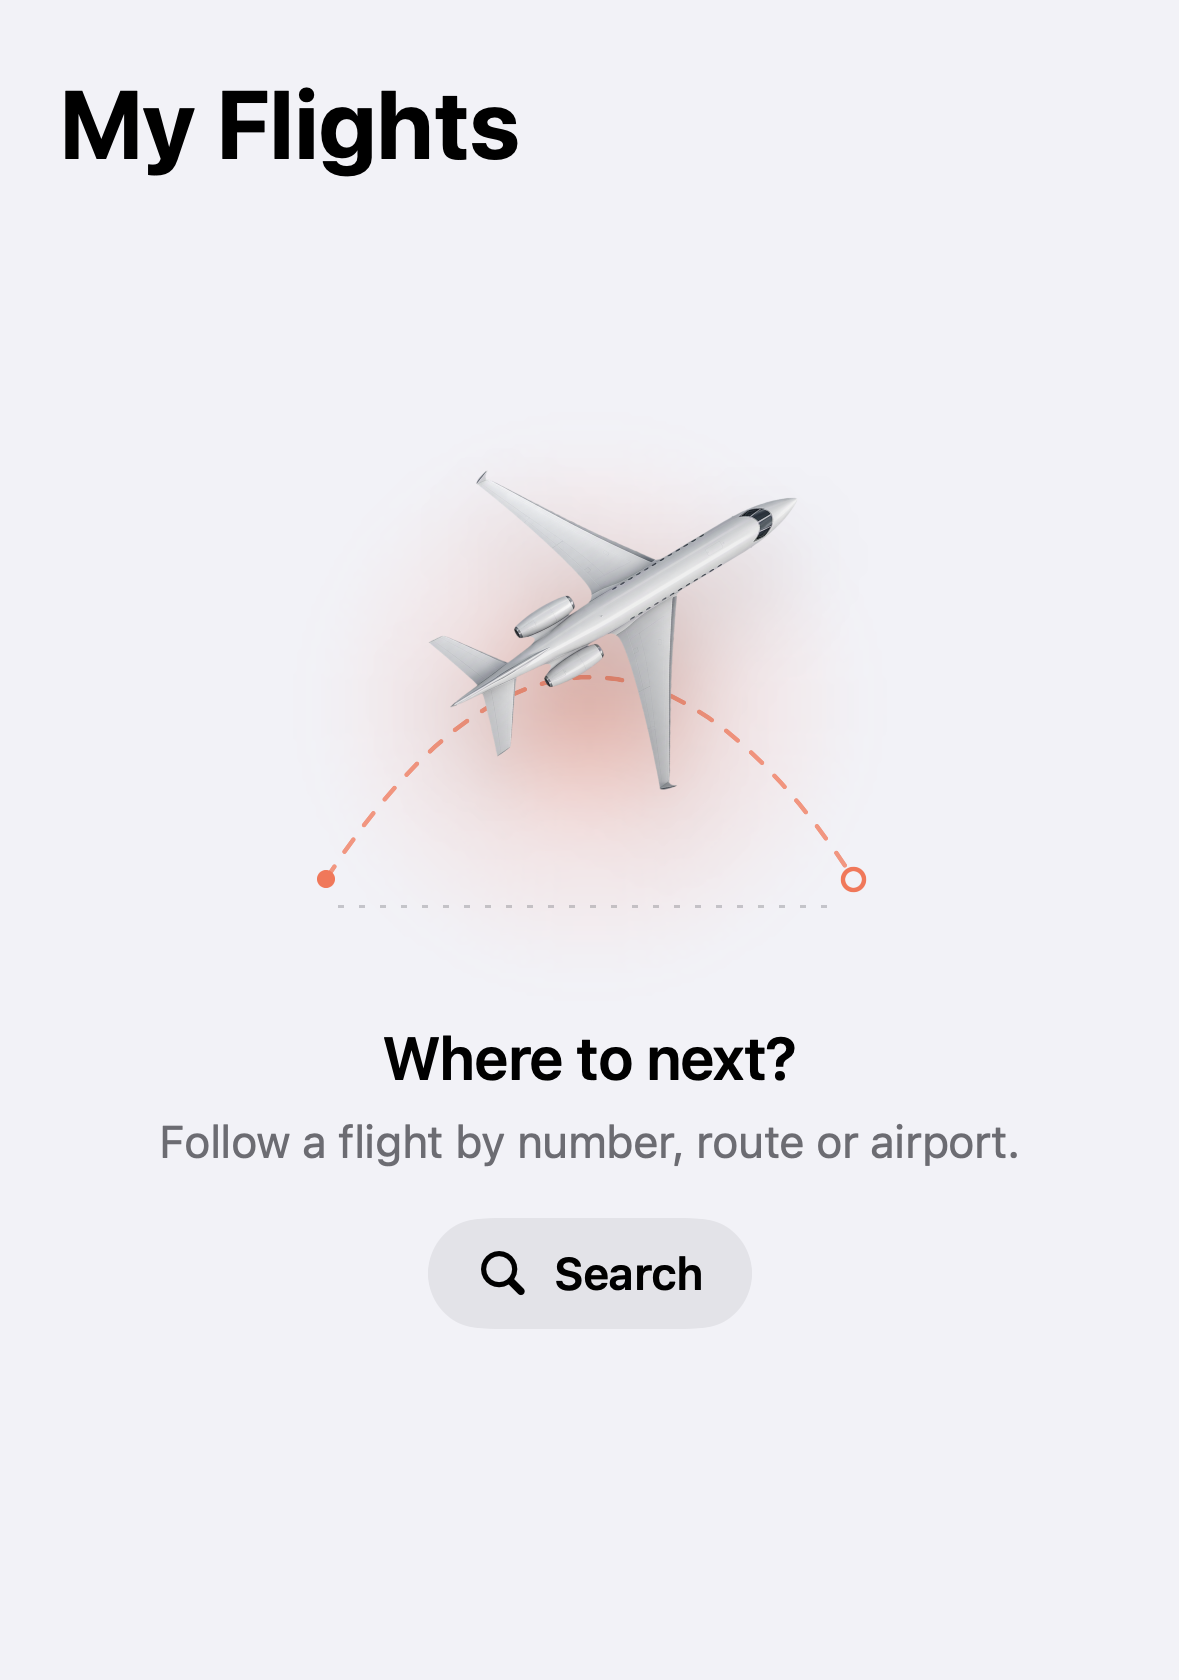
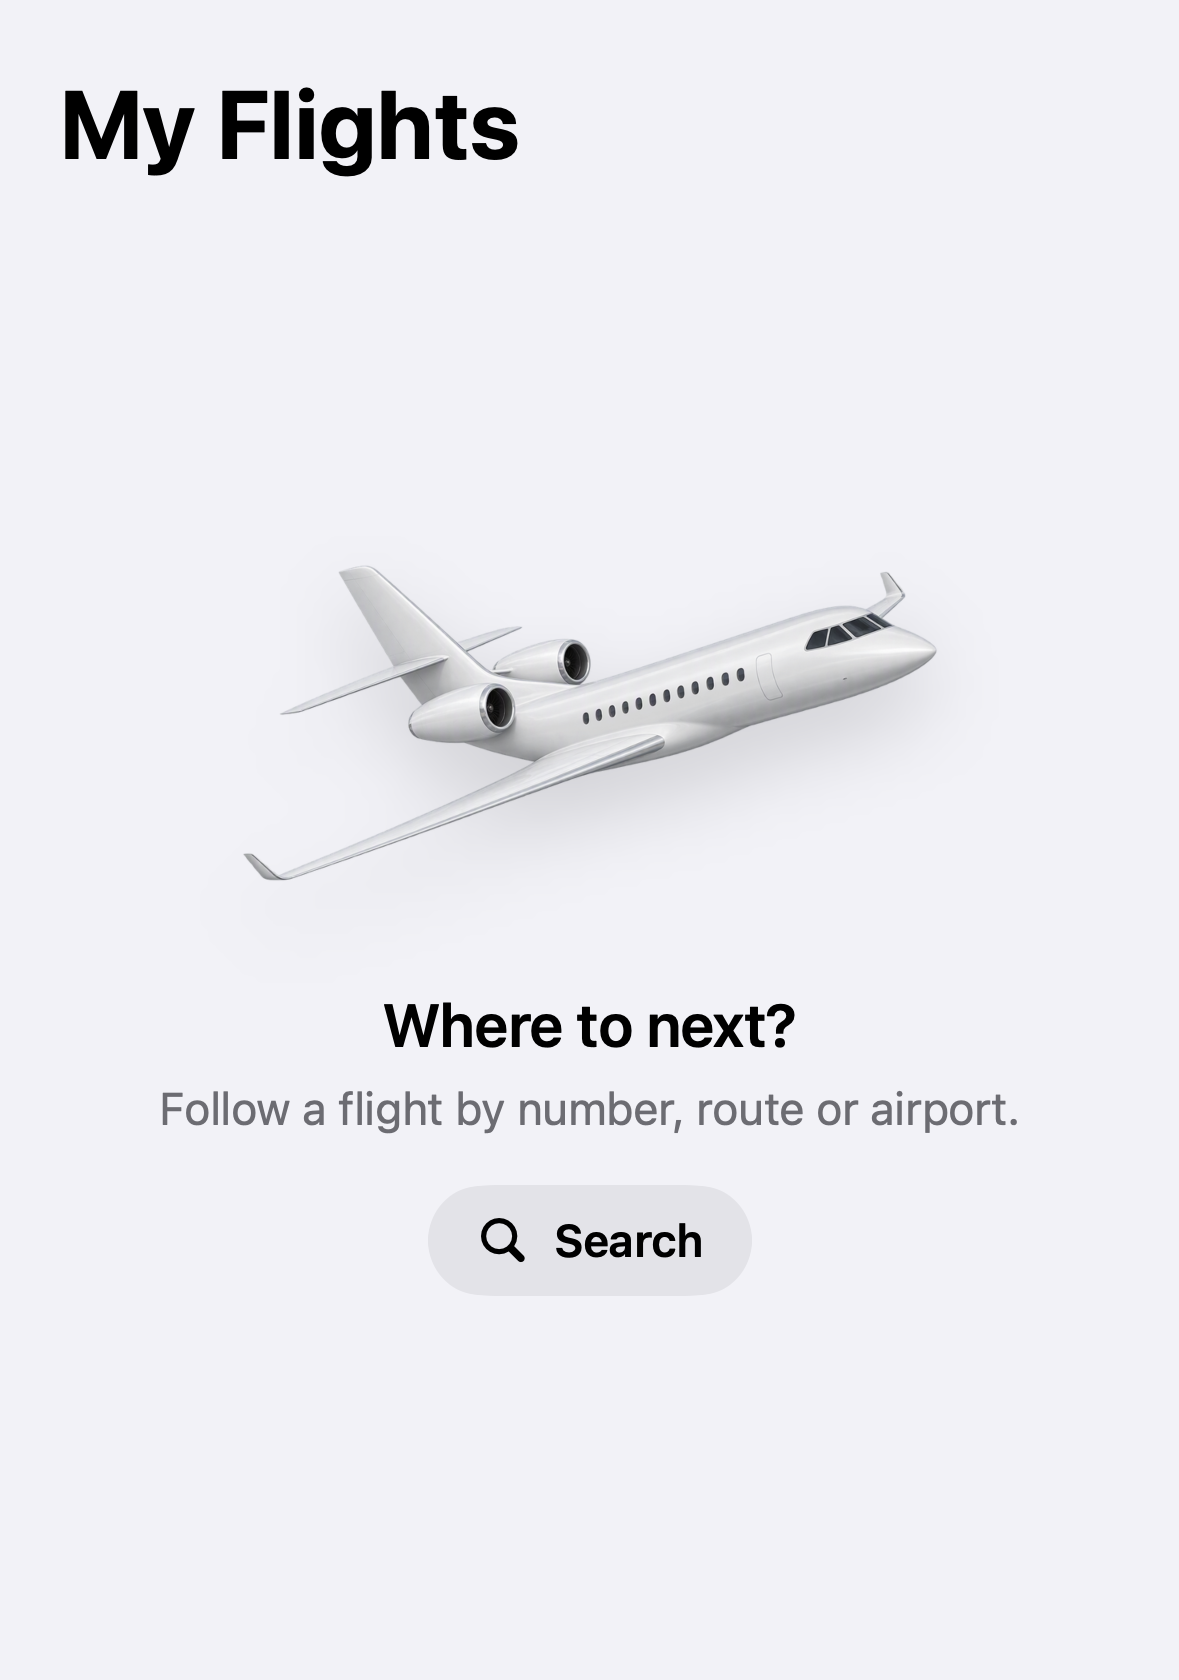
feat(ui): plain jet pictures for the Passport and My Flights empty states
Drop the rings, route arcs and airport dots. Passport shows the white jet in
side profile, My Flights the same jet climbing in three-quarter view, both made
with Azure gpt-image-2.5 from the v4 icon jet (prompts and raws in
assets/empty-states).

diff --git a/Packages/FlightKit/Sources/FlightKit/UI/EmptyStateIllustration.swift b/Packages/FlightKit/Sources/FlightKit/UI/EmptyStateIllustration.swift
@@ -1,190 +1,63 @@
 import SwiftUI
 
-/// A large, soft illustration for an empty screen: our glossy white jet over a warm coral glow, with route
-/// lines drawn around it. Arcs, rings and dots are drawn here, not baked into the picture, so they follow
-/// the colour scheme. Decorative: VoiceOver skips it, the text under it speaks. The jet floats gently,
-/// and stays still with Reduce Motion.
+/// A large, soft illustration for an empty screen: our glossy white jet on its own, nothing drawn around it.
+/// The pictures come from assets/empty-states (Azure gpt-image-2.5, the v4 icon jet as the style reference).
+/// Decorative: VoiceOver skips it, the text under it speaks. The jet floats gently, and stays still with
+/// Reduce Motion.
 struct EmptyStateIllustration: View {
-    /// What is drawn around the jet, so each empty screen gets its own picture.
+    /// Which picture, so each empty screen gets its own.
     enum Variant {
-        /// The jet crossing a dashed great-circle arc inside a passport-stamp ring (Passport).
+        /// The jet in pure side profile, level flight (Passport).
         case stamp
-        /// The jet climbing over a dashed arc between two airports, above a faint horizon (My Flights).
+        /// The jet seen three-quarters from the front, climbing (My Flights).
         case climb
+
+        var asset: String {
+            switch self {
+            case .stamp: "empty-jet-profile"
+            case .climb: "empty-jet-climb"
+            }
+        }
     }
 
     var variant: Variant = .stamp
     /// The width of the picture in points; accessibility text sizes take it down to 72% to leave room for the words.
-    var size: CGFloat = 250
-    /// The picture in the middle, from the FlightKit asset catalog.
-    var asset: String = "empty-jet"
+    var size: CGFloat = 300
 
     @Environment(\.accessibilityReduceMotion) private var reduceMotion
     @Environment(\.dynamicTypeSize) private var typeSize
     @Environment(\.colorScheme) private var scheme
     @State private var floating = false
 
-    /// The warm coral of the Ember icon's glow.
-    static let coral = Color(light: 0xF0785A, dark: 0xFF7A55)
-
-    private var side: CGFloat { typeSize.isAccessibilitySize ? size * 0.72 : size }
-    private var height: CGFloat { variant == .stamp ? side : side * 0.8 }
-    private var dark: Bool { scheme == .dark }
+    private var width: CGFloat { typeSize.isAccessibilitySize ? size * 0.72 : size }
 
     var body: some View {
-        ZStack {
-            switch variant {
-            case .stamp: stampScene
-            case .climb: climbScene
-            }
-        }
-        .frame(width: side, height: height)
-        .frame(maxWidth: .infinity)
-        .accessibilityHidden(true)
-        .onAppear {
-            guard !reduceMotion else { return }
-            withAnimation(.easeInOut(duration: 3.2).repeatForever(autoreverses: true)) { floating = true }
-        }
-        .onChange(of: reduceMotion) { _, reduced in
-            if reduced { withAnimation(.easeOut(duration: 0.3)) { floating = false } }
-        }
-    }
-
-    // MARK: Scenes
-
-    private var stampScene: some View {
-        let arc = side * 0.62
-        return ZStack {
-            glow(radius: side * 0.5)
-            StampRing()
-                .stroke(Theme.secondary.opacity(dark ? 0.28 : 0.32), style: StrokeStyle(lineWidth: 1, dash: [2, 5]))
-                .frame(width: side * 0.86, height: side * 0.86)
-            Circle()
-                .stroke(Theme.secondary.opacity(dark ? 0.16 : 0.2), lineWidth: 1)
-                .frame(width: side * 0.70, height: side * 0.70)
-            RouteArc()
-                .stroke(Self.coral.opacity(0.75), style: dashed)
-                .frame(width: side, height: arc)
-                .offset(y: side * 0.04)
-            airport(filled: true)
-                .offset(x: -side * 0.47, y: arc * 0.44 + side * 0.04)
-            airport(filled: false)
-                .offset(x: side * 0.47, y: -arc * 0.44 + side * 0.04)
-            jet(size: side * 0.66, tilt: -6)
-        }
-    }
-
-    private var climbScene: some View {
-        let span = side * 0.88
-        let rise = height * 0.42
-        let base = height * 0.3
-        return ZStack {
-            glow(radius: side * 0.46)
-                .offset(y: -height * 0.06)
-            Horizon()
-                .stroke(Theme.secondary.opacity(dark ? 0.3 : 0.34), style: StrokeStyle(lineWidth: 1, dash: [2, 5]))
-                .frame(width: side, height: 1)
-                .offset(y: base + 9)
-            ClimbArc()
-                .stroke(Self.coral.opacity(0.75), style: dashed)
-                .frame(width: span, height: rise)
-                .offset(y: base - rise / 2)
-            airport(filled: true)
-                .offset(x: -span / 2, y: base)
-            airport(filled: false)
-                .offset(x: span / 2, y: base)
-            jet(size: side * 0.54, tilt: 14)
-                .offset(x: side * 0.02, y: -height * 0.21)
-        }
-    }
-
-    // MARK: Pieces
-
-    private var dashed: StrokeStyle { StrokeStyle(lineWidth: 1.5, lineCap: .round, dash: [5, 6]) }
-
-    /// The coral bloom behind the jet, a touch stronger in dark where the sheet is near black.
-    private func glow(radius: CGFloat) -> some View {
-        RadialGradient(colors: [Self.coral.opacity(dark ? 0.6 : 0.42),
-                                Self.coral.opacity(dark ? 0.16 : 0.12),
-                                Self.coral.opacity(0)],
-                       center: .center, startRadius: 0, endRadius: radius)
-            .frame(width: radius * 2.4, height: radius * 2.4)
-            .blur(radius: 8)
-    }
-
-    /// An airport dot: filled where the route starts, a ring where it ends.
-    @ViewBuilder private func airport(filled: Bool) -> some View {
-        if filled {
-            Circle().fill(Self.coral).frame(width: 6, height: 6)
-        } else {
-            Circle().stroke(Self.coral, lineWidth: 1.5).frame(width: 7, height: 7)
-        }
-    }
-
-    private func jet(size: CGFloat, tilt: Double) -> some View {
-        Image(asset, bundle: .module)
+        Image(variant.asset, bundle: .module)
             .resizable()
             .interpolation(.high)
             .scaledToFit()
-            .frame(width: size, height: size)
-            .rotationEffect(.degrees(tilt))
-            .shadow(color: Color.black.opacity(dark ? 0.45 : 0.16), radius: 16, y: 14)
-            .offset(y: floating ? -6 : 4)
-    }
-}
-
-/// A great-circle style route from the lower left to the upper right, bowing up like a flight on a flat map.
-private struct RouteArc: Shape {
-    func path(in rect: CGRect) -> Path {
-        var p = Path()
-        let start = CGPoint(x: rect.minX + rect.width * 0.03, y: rect.maxY - rect.height * 0.06)
-        let end = CGPoint(x: rect.maxX - rect.width * 0.03, y: rect.minY + rect.height * 0.06)
-        p.move(to: start)
-        p.addQuadCurve(to: end, control: CGPoint(x: rect.minX + rect.width * 0.3, y: rect.minY - rect.height * 0.12))
-        return p
-    }
-}
-
-/// A route between two airports on the same level, its top touching the frame's top edge.
-private struct ClimbArc: Shape {
-    func path(in rect: CGRect) -> Path {
-        var p = Path()
-        p.move(to: CGPoint(x: rect.minX, y: rect.maxY))
-        // A quadratic's apex sits halfway to its control point.
-        p.addQuadCurve(to: CGPoint(x: rect.maxX, y: rect.maxY),
-                       control: CGPoint(x: rect.midX, y: rect.maxY - rect.height * 2))
-        return p
-    }
-}
-
-/// A flat horizon line under the airports.
-private struct Horizon: Shape {
-    func path(in rect: CGRect) -> Path {
-        var p = Path()
-        p.move(to: CGPoint(x: rect.minX + rect.width * 0.08, y: rect.midY))
-        p.addLine(to: CGPoint(x: rect.maxX - rect.width * 0.08, y: rect.midY))
-        return p
-    }
-}
-
-/// A passport-stamp edge: a ring with two gaps where a stamp's lettering would sit.
-private struct StampRing: Shape {
-    func path(in rect: CGRect) -> Path {
-        let r = min(rect.width, rect.height) / 2
-        let c = CGPoint(x: rect.midX, y: rect.midY)
-        var p = Path()
-        p.addArc(center: c, radius: r, startAngle: .degrees(-200), endAngle: .degrees(-40), clockwise: false)
-        p.move(to: CGPoint(x: c.x + r * cos(.pi * -20 / 180), y: c.y + r * sin(.pi * -20 / 180)))
-        p.addArc(center: c, radius: r, startAngle: .degrees(-20), endAngle: .degrees(140), clockwise: false)
-        return p
+            .frame(width: width)
+            // A soft shadow under the jet: it lifts the white paint off the light sheet, and barely shows in dark.
+            .shadow(color: Color.black.opacity(scheme == .dark ? 0.5 : 0.14), radius: 14, y: 12)
+            .offset(y: floating ? -4 : 4)
+            .scaledPadding(.vertical, 12)
+            .frame(maxWidth: .infinity)
+            .accessibilityHidden(true)
+            .onAppear {
+                guard !reduceMotion else { return }
+                withAnimation(.easeInOut(duration: 3.2).repeatForever(autoreverses: true)) { floating = true }
+            }
+            .onChange(of: reduceMotion) { _, reduced in
+                if reduced { withAnimation(.easeOut(duration: 0.3)) { floating = false } }
+            }
     }
 }
 
 #if DEBUG
-#Preview("Stamp") {
+#Preview("Profile") {
     EmptyStateIllustration().padding().background(Theme.background).preferredColorScheme(.dark)
 }
 #Preview("Climb, light") {
-    EmptyStateIllustration(variant: .climb).padding().background(Theme.background).preferredColorScheme(.light)
+    EmptyStateIllustration(variant: .climb, size: 240).padding().background(Theme.background).preferredColorScheme(.light)
 }
 #endif

diff --git a/Packages/FlightKit/Sources/FlightKit/UI/Screens/MyFlightsView.swift b/Packages/FlightKit/Sources/FlightKit/UI/Screens/MyFlightsView.swift
@@ -128,7 +128,7 @@ struct EmptyFlights: View {
         VStack(spacing: 6) {
             Spacer(minLength: 0)
             // Smaller than Passport's: the home sheet opens at half height and Search should stay in view.
-            EmptyStateIllustration(variant: .climb, size: 200)
+            EmptyStateIllustration(variant: .climb, size: 240)
                 .scaledPadding(.bottom, 10)
             Text("Where to next?")
                 .scaledFont(20, weight: .semibold)

diff --git a/assets/empty-states/gen.py b/assets/empty-states/gen.py
@@ -1,0 +1,91 @@
+"""Empty-state jets for Passport and My Flights, made with Azure gpt-image-2.5 (images/edits).
+
+The v4 app-icon jet (assets/icon-set-v4/plane-white.png, seen from above) is the style reference.
+One call at a time: the deployment rate-limits. Usage, from the repo root:
+
+    python3 assets/empty-states/gen.py profile 1     # -> assets/empty-states/raw/profile-1.png
+    python3 assets/empty-states/gen.py climb 2
+
+Then: python3 assets/empty-states/post.py <raw png> <asset name>  (trim, resize, write the imageset).
+"""
+import base64, json, pathlib, subprocess, sys, time, urllib.error, urllib.request, uuid
+
+ROOT = pathlib.Path(__file__).resolve().parents[2]
+OUT = pathlib.Path(__file__).resolve().parent / "raw"
+REF = ROOT / "assets" / "icon-set-v4" / "plane-white.png"
+EP = ("https://temple-ai-provider.cognitiveservices.azure.com/openai/deployments/gpt-image-2.5-flare/"
+      "images/edits?api-version=2025-04-01-preview")
+
+BASE = (
+    "The reference image shows our brand's private business jet from above: a large modern long-range business "
+    "jet in the Dassault Falcon 6X class, glossy pure white paint with soft silver shading, two rear-mounted "
+    "engines on the aft fuselage, swept wings with small upturned winglets, T-less cruciform-free conventional "
+    "tail with a swept fin and a horizontal stabiliser low on the fin, oval cabin windows, dark cockpit glass. "
+    "Draw THE SAME aircraft, same paint and same rendering style: a realistic but slightly stylised premium "
+    "product illustration, like an Apple product render, clean studio lighting, smooth gloss, crisp edges, "
+    "very few panel lines. Absolutely no livery, no stripes, no logo, no text, no registration, no flag. "
+    "Exactly two engines, both on the rear fuselage. Landing gear retracted, in flight. "
+    "Isolated on a fully transparent background: no sky, no ground, no clouds, no shadow, no reflection, "
+    "no frame, no watermark. The whole aircraft fits in the frame with generous equal margins, centred. "
+)
+VIEWS = {
+    "profile": "View: pure side profile, nose pointing RIGHT, camera exactly level with the fuselage, "
+               "level flight, no roll, no pitch. Only the near engine is visible on the rear fuselage.",
+    "climb": "View: three-quarter view from slightly below and in front, nose pointing to the upper RIGHT, "
+             "the jet climbing gently at about 12 degrees, a little of the underside of the near wing visible, "
+             "both wings and both engines visible, elegant and dynamic.",
+    # climb-1 came back as a top view again; v2 pins the camera to the side.
+    "climb2": "View: almost a pure side profile, nose pointing RIGHT, the camera only about 15 degrees in front of "
+              "the side and slightly below the aircraft. The jet is climbing: the whole aircraft is pitched nose-up "
+              "by about 12 degrees, so the nose is higher than the tail. The near wing is seen almost edge-on, "
+              "attached low on the fuselage under the cabin windows, its tip just behind the engine. Only the near "
+              "engine is clearly visible on the rear fuselage.",
+    # climb2-1 bent the fuselage like a banana; v3 asks for a rigid, straight fuselage at a three-quarter angle.
+    "climb3": "View: three-quarter front view, camera level with the aircraft and about 35 degrees ahead of its "
+              "right side, so we see the nose, the right side of the fuselage and both wings receding in "
+              "perspective. Nose pointing to the RIGHT and toward the viewer, the jet climbing gently with the "
+              "nose about 8 degrees up. The fuselage is a rigid perfectly straight tube, correct perspective, "
+              "two engines on the rear fuselage, one on each side, swept wings with small winglets.",
+    # profile-1: good, but the wing read as a plank under the belly with its tip under the fin.
+    "profile2": "View: pure side profile, nose pointing RIGHT, camera exactly level with the fuselage, level flight. "
+                "The near wing is seen almost edge-on, attached low on the fuselage below the cabin windows; its "
+                "swept tip with a small upturned winglet ends just below and behind the engine, well ahead of the "
+                "fin. Only the near engine is visible on the rear fuselage.",
+}
+
+
+def key():
+    return subprocess.check_output(["az", "cognitiveservices", "account", "keys", "list", "-n", "temple-ai-provider",
+                                    "-g", "temple-ai-rg", "--query", "key1", "-o", "tsv"], text=True).strip()
+
+
+def run(view, tag, k):
+    b = uuid.uuid4().hex
+    fields = {"prompt": BASE + VIEWS[view], "size": "1536x1024", "quality": "high",
+              "background": "transparent", "output_format": "png", "n": "1"}
+    body = b"".join(f"--{b}\r\nContent-Disposition: form-data; name=\"{f}\"\r\n\r\n{v}\r\n".encode()
+                    for f, v in fields.items())
+    body += (f"--{b}\r\nContent-Disposition: form-data; name=\"image[]\"; filename=\"{REF.name}\"\r\n"
+             "Content-Type: image/png\r\n\r\n").encode() + REF.read_bytes() + b"\r\n"
+    body += f"--{b}--\r\n".encode()
+    req = urllib.request.Request(EP, data=body, method="POST",
+                                 headers={"api-key": k, "Content-Type": f"multipart/form-data; boundary={b}"})
+    for attempt in range(6):
+        try:
+            r = json.load(urllib.request.urlopen(req, timeout=600))
+            break
+        except urllib.error.HTTPError as e:
+            if e.code == 429:
+                time.sleep(40 + 10 * attempt)
+                continue
+            sys.exit(f"HTTP {e.code} {e.read()[:300]!r}")
+    else:
+        sys.exit("gave up after 429s")
+    OUT.mkdir(exist_ok=True)
+    out = OUT / f"{view}-{tag}.png"
+    out.write_bytes(base64.b64decode(r["data"][0]["b64_json"]))
+    print(out)
+
+
+if __name__ == "__main__":
+    run(sys.argv[1], sys.argv[2], key())

diff --git a/assets/empty-states/post.py b/assets/empty-states/post.py
@@ -1,0 +1,50 @@
+"""Clean a raw generation into an app asset: drop the faint alpha halo, trim, resize, write the imageset.
+
+    python3 assets/empty-states/post.py raw/profile-1.png empty-jet-profile [--preview DIR]
+"""
+import json, pathlib, sys
+import numpy as np
+from PIL import Image
+
+ROOT = pathlib.Path(__file__).resolve().parents[2]
+SETS = ROOT / "Packages/FlightKit/Sources/FlightKit/Resources/Illustrations.xcassets"
+WIDTH = 900  # 300 pt wide at @3x, the largest the empty states draw it
+
+
+def clean(path):
+    im = Image.open(path).convert("RGBA")
+    a = np.array(im).astype(np.float32)
+    alpha = a[..., 3]
+    # The model leaves a faint white glow (alpha under ~40) around the aircraft: fade it out.
+    alpha = np.clip((alpha - 40) * 255 / (255 - 40), 0, 255)
+    a[..., 3] = alpha
+    im = Image.fromarray(a.astype(np.uint8))
+    im = im.crop(im.getbbox())
+    pad = int(im.width * 0.02)
+    out = Image.new("RGBA", (im.width + 2 * pad, im.height + 2 * pad))
+    out.paste(im, (pad, pad))
+    h = round(out.height * WIDTH / out.width)
+    return out.resize((WIDTH, h), Image.LANCZOS)
+
+
+def preview(im, name, d):
+    d = pathlib.Path(d); d.mkdir(parents=True, exist_ok=True)
+    for tag, bg in (("dark", (9, 9, 10)), ("light", (242, 242, 247))):
+        c = Image.new("RGBA", (im.width + 120, im.height + 120), bg + (255,))
+        c.alpha_composite(im, (60, 60))
+        c.convert("RGB").save(d / f"{name}-{tag}.png")
+
+
+if __name__ == "__main__":
+    src, name = sys.argv[1], sys.argv[2]
+    im = clean(src)
+    if "--preview" in sys.argv:
+        preview(im, name, sys.argv[sys.argv.index("--preview") + 1])
+        sys.exit()
+    d = SETS / f"{name}.imageset"
+    d.mkdir(exist_ok=True)
+    im.save(d / f"{name}.png", optimize=True)
+    (d / "Contents.json").write_text(json.dumps({
+        "images": [{"filename": f"{name}.png", "idiom": "universal"}],
+        "info": {"author": "xcode", "version": 1}}, indent=2) + "\n")
+    print(d / f"{name}.png", im.size, (d / f"{name}.png").stat().st_size // 1024, "KB")
